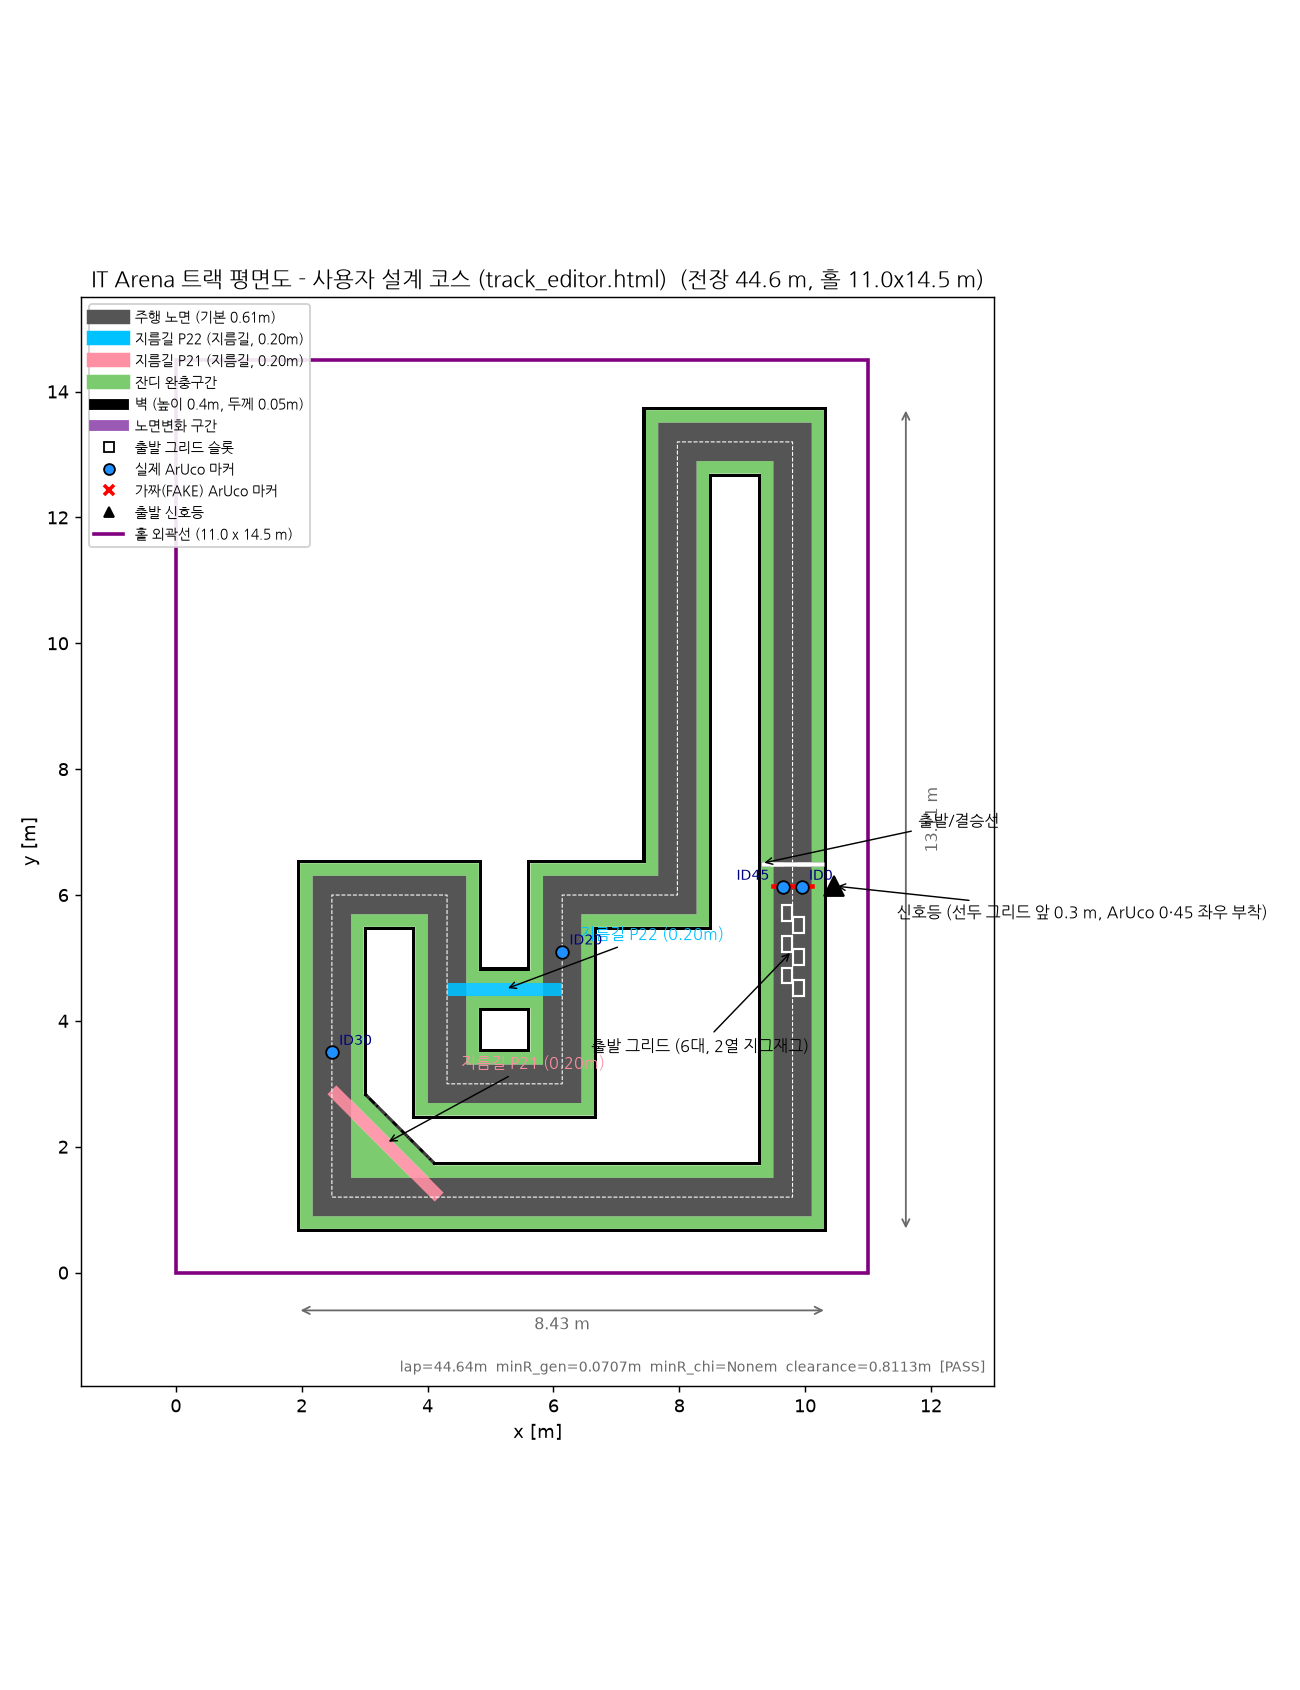
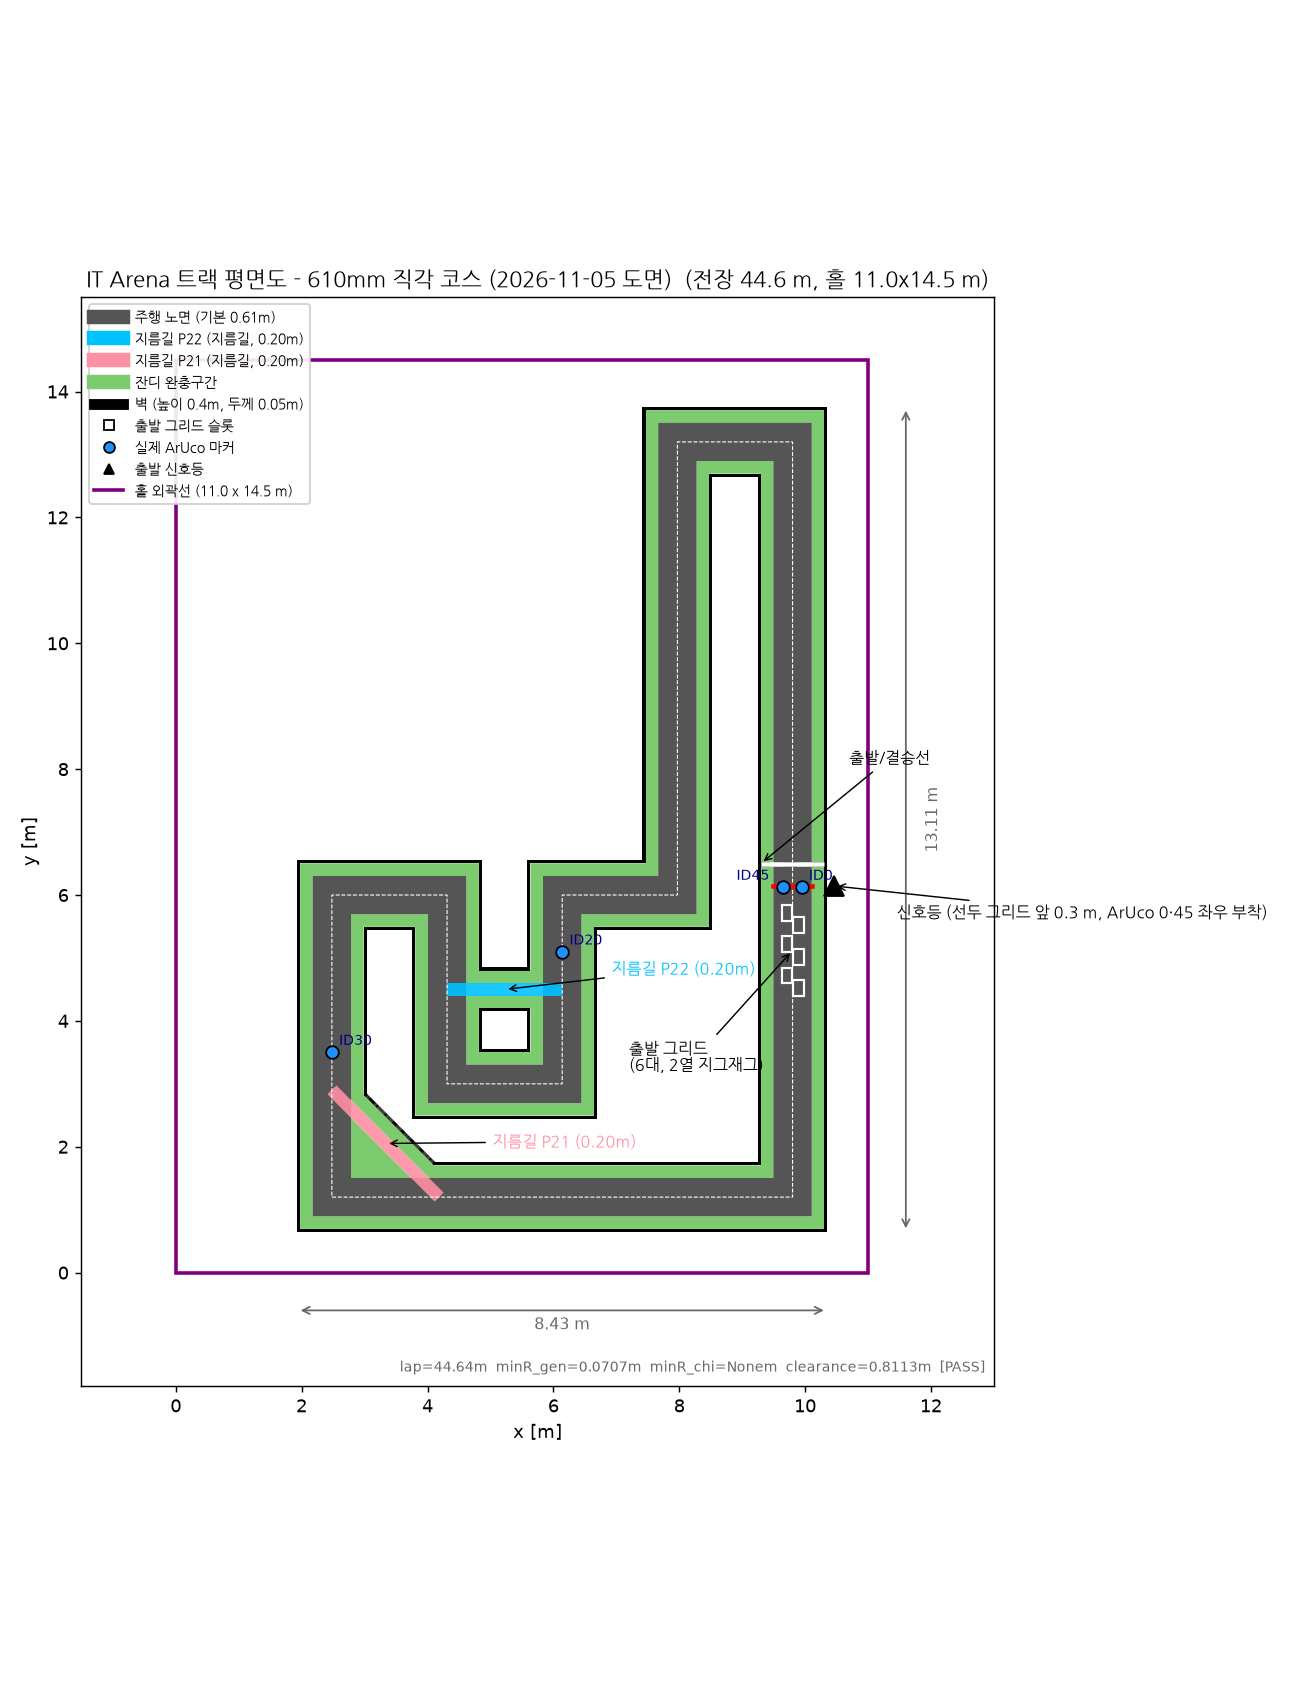
평면도 정리 — 610mm 직각 코스 제목·라벨 겹침·범례
- 제목/scene.json course_name을 design json에서 받음 → "610mm 직각 코스 (2026-11-05 도면)"
- 지름길 라벨 위치를 design json label_offset으로 지정 (P22가 ID20과, P21이 잔디와 겹치던 것)
- 출발/결승선 라벨이 치수 13.11 m와 겹치던 것, 그리드 라벨이 벽을 넘던 것 이동
- 범례의 노면변화·가짜 ArUco는 해당 요소가 있을 때만 표시
- track/README: "도면이 다시 바뀔 수 있다" 문구 삭제 (코스 확정)

기하 무변경: preview.png·scene.json(course_name 한 줄) 외 산출물 동일, check6 17/17 PASS

diff --git a/track/track_gen.py b/track/track_gen.py
@@ -1061,7 +1061,7 @@ def build_all_from_design(design, resolution=0.01, bump_height=0.010, grid_cars_
             width_m=float(b.get("width_m", NARROW_W)),
             s0=float(b.get("s0", 0.0)) % Ltot,
             s1=float(b.get("s1", 0.0)) % Ltot,
-            arr=barr, length=float(blen),
+            arr=barr, length=float(blen), label_offset=b.get("label_offset"),
         ))
 
     feats = design.get("features", {}) or {}
@@ -1149,6 +1149,7 @@ def build_all_from_design(design, resolution=0.01, bump_height=0.010, grid_cars_
         narrow_zones=meta_narrow_zones,
         grid_start_s=(float(gz["s0"]) % Ltot if gz else 0.0), grid_ext=0.0,
         grid_stagger=float(grid_stagger), design_mode=True, square_corners=square,
+        course_name=design.get("course_name", "사용자 설계 코스 (track_editor.html)"),
     )
 
     return dict(arr=arr, left_b=left_b, right_b=right_b, left_grass_out=left_grass_out,
@@ -2160,7 +2161,7 @@ def write_scene_json(res, outdir, checks):
         track_dict["friction_zone"] = None
 
     scene = {
-        "course_name": ("후보1 통합 코스 (A+B)" if not is_design else "사용자 설계 코스 (track_editor.html)"),
+        "course_name": ("후보1 통합 코스 (A+B)" if not is_design else meta["course_name"]),
         "hall": {"width_m": HALL_W * meta["scale"], "height_m": HALL_H * meta["scale"],
                  "operational_margin_target_m": 0.5 * meta["scale"]},
         "scale": meta["scale"],
@@ -2546,8 +2547,8 @@ def render_preview(res, boxes, outdir, checks):
     if res["grid_slots"]:
         gx = np.mean([g["x"] for g in res["grid_slots"]])
         gy = np.mean([g["y"] for g in res["grid_slots"]])
-        ax.annotate(f"출발 그리드 ({meta['grid_cars']}대, 2열 지그재그)", (gx, gy),
-                    xytext=(gx - 3.2, gy - 1.6), fontsize=9, fontproperties=kr_font,
+        ax.annotate(f"출발 그리드\n({meta['grid_cars']}대, 2열 지그재그)", (gx, gy),
+                    xytext=(gx - 2.6, gy - 1.9), fontsize=9, fontproperties=kr_font,
                     arrowprops=dict(arrowstyle="->", lw=0.8), zorder=10)
 
     tl = res["traffic_light"]
@@ -2558,7 +2559,7 @@ def render_preview(res, boxes, outdir, checks):
     sf_b = (sfx + math.cos(perp) * half, sfy + math.sin(perp) * half)
     ax.plot([sf_a[0], sf_b[0]], [sf_a[1], sf_b[1]], color="white", lw=2.5, zorder=7, solid_capstyle="butt")
     ax.plot([sf_a[0], sf_b[0]], [sf_a[1], sf_b[1]], color="black", lw=2.5, zorder=6.5, ls=(0, (3, 3)))
-    ax.annotate("출발/결승선", (sf_b[0], sf_b[1]), xytext=(sfx + 2.0, sfy + 0.6), fontproperties=kr_font,
+    ax.annotate("출발/결승선", (sf_b[0], sf_b[1]), xytext=(sfx + 0.9, sfy + 1.6), fontproperties=kr_font,
                 fontsize=9, arrowprops=dict(arrowstyle="->", lw=0.8), zorder=10)
     # start light: bar across the road + glyph beside it (light sits 0.3 m ahead of the grid)
     tperp = tl["yaw"] + math.pi / 2
@@ -2598,8 +2599,9 @@ def render_preview(res, boxes, outdir, checks):
     for i, br in enumerate(branches):
         mx_, my_ = br["arr"][len(br["arr"]) // 2, :2]
         col = branch_colors[i % len(branch_colors)]
+        dx, dy = br.get("label_offset") or (1.2, 0.8 + (i % 3) * 0.4)
         ax.annotate(f"{br['name']} ({br['width_m']:.2f}m)", (mx_, my_),
-                    xytext=(mx_ + 1.2, my_ + 0.8 + (i % 3) * 0.4), fontsize=9,
+                    xytext=(mx_ + dx, my_ + dy), fontsize=9,
                     fontproperties=kr_font, color=col, arrowprops=dict(arrowstyle="->", lw=0.8), zorder=10)
 
     # sector labels
@@ -2647,7 +2649,7 @@ def render_preview(res, boxes, outdir, checks):
     ax.set_aspect("equal")
     ax.set_xlabel("x [m]")
     ax.set_ylabel("y [m]")
-    course_title = "후보1 통합 코스 (A+B)" if not is_design else "사용자 설계 코스 (track_editor.html)"
+    course_title = "후보1 통합 코스 (A+B)" if not is_design else meta["course_name"]
     ax.set_title(f"IT Arena 트랙 평면도 - {course_title}  (전장 {meta['Ltot']:.1f} m, 홀 {hall_w:.1f}x{hall_h:.1f} m)",
                  fontproperties=kr_font, fontsize=12)
 
@@ -2671,10 +2673,11 @@ def render_preview(res, boxes, outdir, checks):
         (plt.Line2D([0], [0], color="#7CCB6E", lw=8), "잔디 완충구간"),
         (plt.Line2D([0], [0], color="black", lw=6), f"벽 (높이 {WALL_H}m, 두께 0.05m)"),
     ] + ([(plt.Line2D([0], [0], color="#B8860B", lw=6), "과속방지턱 구간")] if res["bumps"] else []) + [
-        (plt.Line2D([0], [0], color="#9B59B6", lw=6), "노면변화 구간"),
+    ] + ([(plt.Line2D([0], [0], color="#9B59B6", lw=6), "노면변화 구간")] if get_friction_zones(res) else []) + [
         (plt.Line2D([0], [0], color="white", lw=1.5, marker="s", mec="black"), "출발 그리드 슬롯"),
         (plt.Line2D([0], [0], marker="o", color="dodgerblue", lw=0, mec="black"), "실제 ArUco 마커"),
-        (plt.Line2D([0], [0], marker="x", color="red", lw=0, mew=2), "가짜(FAKE) ArUco 마커"),
+    ] + ([(plt.Line2D([0], [0], marker="x", color="red", lw=0, mew=2), "가짜(FAKE) ArUco 마커")]
+         if any(not m["real"] for m in res["markers"]) else []) + [
         (plt.Line2D([0], [0], marker="^", color="black", lw=0), "출발 신호등"),
         (plt.Line2D([0], [0], color="purple", lw=2), f"홀 외곽선 ({HALL_W:.1f} x {HALL_H:.1f} m)"),
     ]

diff --git a/track/make_design_610.py b/track/make_design_610.py
@@ -24,14 +24,14 @@ def s_of(p):
 P22 = [(X_M2, 4.5), (X_M3, 4.5)]
 P21 = [(X_L, 2.600 + (2.785 - X_L)), (3.880 + (1.505 - Y_B), Y_B)]
 
-branches = [dict(name="지름길 P22", width_m=0.2, s0=s_of(P22[0]), s1=s_of(P22[1]),
+branches = [dict(name="지름길 P22", width_m=0.2, s0=s_of(P22[0]), s1=s_of(P22[1]), label_offset=[1.7, 0.25],
                  control_points=[], centerline=[list(p) for p in P22]),
-            dict(name="지름길 P21", width_m=0.2, s0=s_of(P21[0]), s1=s_of(P21[1]),
+            dict(name="지름길 P21", width_m=0.2, s0=s_of(P21[0]), s1=s_of(P21[1]), label_offset=[1.7, -0.05],
                  control_points=[], centerline=[list(p) for p in P21])]
 
 d = dict(
     version=4, hall=dict(w=11, h=14.5), track_width_m=0.61, closed=True,
-    corner_join="mitre",
+    corner_join="mitre", course_name="610mm 직각 코스 (2026-11-05 도면)",
     source="track_610mm_build_2026-11-05.pdf pp.46-47 -- grid/traffic light/aruco are PROVISIONAL",
     control_points=[], centerline=[list(p) for p in loop],
     features=dict(

diff --git a/track/README.md b/track/README.md
@@ -17,7 +17,6 @@
 > - ⚠ **출발 그리드·신호등·ArUco 20·30 위치는 아직 임시값입니다.** 새 코스 기준으로 확정되면 다시 맞춥니다.
 >   마커 규격(판 10 cm / 코드 7 cm, **도로 표면 기준 중심 0.40 m**)과 ID 45 왼쪽 · 0 오른쪽은 그대로입니다.
 > - 세이브 포인트([`docs/venue/save_points.png`](../docs/venue/save_points.png))는 **기존 코스 기준**이라 새로 정합니다.
-> - 실제 차량으로 **직각 코너 하나를 먼저 만들어 시험**합니다. 코너가 안 돌면 도면이 다시 바뀔 수 있습니다.
 
 `design_final.json`은 [`make_design_610.py`](make_design_610.py)가 PDF 46~47쪽의 바닥 조각(P01~P22) 좌표로 만듭니다
 (각 0.61 m 띠의 중앙선 = 센터라인). `track_gen.py`를 `--design` 모드로 실행하면 `output_final/` 아래 모든 산출물이 재생성됩니다.
